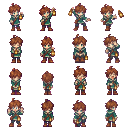
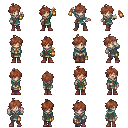
Trainer-intro beat art complete (42 sprites); Andrew's word outside the Old Light; ANY-OF gates so old saves aren't locked out; purple-rim fix; v1.23
- All trainer battle sprites: 15 shared classes, 8 Lampwardens, Wren/Cor/Fenn/
  Georgina/Paul/5 Vigilants, the whole Old Light cast + Punchwheel, player back/front.
- Andrew runs up once the jest is done (pearlmoor_point band), says his piece
  with the player's {name}, laughs and dashes off.
- FlagStore ANY_OF: the Old Light door, breakwater moor-gate, Galehigh winch and
  Pale Vault undercroft open on their quest step OR the later Gleam (mirrored
  in audit_journey DERIVED_ANY).
- tools/assets/fix_purple_rim.py cleans the old chroma-key rim; the player
  sheets are re-tinted and repacked. Skill docs: OpenAI path is native alpha.

Claude-Session: https://claude.ai/code/session_01FLaxAhAHVF6U9AFKVoKXeQ

diff --git a/src/game/content/regions/jesthouse.ts b/src/game/content/regions/jesthouse.ts
@@ -193,12 +193,31 @@ export const JESTHOUSE_SCRIPTS: ScriptRegistry = {
   // ---- Lightkeeper's Point: PIP runs after you on the way out --------------------------------
   // Fires once, on the Point's one crossing back to the quay, if you've climbed the
   // tower (the floats are yours) but haven't had the rope yet.
+  // ---- ANDREW outside the Old Light, once the act is done (owner's beat, 2026-10) -------
+  // He runs up, says his piece about eggs and wonder, laughs and dashes off. Never says
+  // WHAT the egg is (CLAUDE.md); {name} is the player's name, whatever they chose.
+  'script.andrew_tower_wink': [
+    { op: 'emote', actor: 'andrew_tower', emote: 'alert' },
+    { op: 'move', actor: 'andrew_tower', to: { tx: 10, ty: 8 }, speed: 2 },
+    { op: 'face', actor: 'andrew_tower', facing: 'left' },
+    { op: 'face', actor: 'player', facing: 'right' },
+    { op: 'say', speaker: 'ANDREW', text: "{name}! There you are. Isn't it funny? All this time you've been chasing that Easter egg..." },
+    { op: 'say', speaker: 'ANDREW', text: "...when the whole game's been a little bit of an Easter egg all along, hasn't it? (wink, wink)" },
+    { op: 'say', speaker: 'ANDREW', text: "Keep playing, though. You're not AT the Easter egg yet." },
+    { op: 'say', speaker: 'ANDREW', text: "Isn't it funny? This game's been a bit of a wonder, hasn't it?" },
+    { op: 'say', speaker: 'ANDREW', text: 'And though you might aspire to make ME wonder... it is YOU who is the one wandering through MY world.' },
+    { op: 'action', actor: 'andrew_tower', action: 'laugh' },
+    { op: 'say', speaker: 'ANDREW', text: 'Ha! Ha ha ha ha!' },
+    { op: 'move', actor: 'andrew_tower', to: { tx: 19, ty: 8 }, speed: 2 },
+    { op: 'hideActor', actor: 'andrew_tower' },
+    { op: 'setFlag', flag: 'flag:andrew_tower_winked' },
+  ],
   'script.oldlight_rope_reminder': [
-    { op: 'emote', actor: 'pip', emote: 'alert', unless_flag: 'flag:q_south_has_rope' },
-    { op: 'move', actor: 'pip', to: { tx: 17, ty: 8 }, unless_flag: 'flag:q_south_has_rope' },
-    { op: 'say', speaker: 'PIP', text: 'WAIT! Wayfarer! Gran says you went UP the Old Light — all the way! Did you get her floats back off that machine?', unless_flag: 'flag:q_south_has_rope' },
-    { op: 'say', speaker: 'PIP', text: 'Take them to her on the quay, by her nets! She\'s got the bell-rope put by. Then you can walk the whole breakwater, right out to the bell.', unless_flag: 'flag:q_south_has_rope' },
-    { op: 'say', speaker: 'PIP', text: 'And go all the way to the END. Everyone says there\'s somebody out past the bell who... I don\'t know what he is. Nobody does! Go and SEE!', unless_flag: 'flag:q_south_has_rope' },
+    { op: 'emote', actor: 'pip', emote: 'alert', unless_flag: 'flag:q_south_rope_or_later' },
+    { op: 'move', actor: 'pip', to: { tx: 17, ty: 8 }, unless_flag: 'flag:q_south_rope_or_later' },
+    { op: 'say', speaker: 'PIP', text: 'WAIT! Wayfarer! Gran says you went UP the Old Light — all the way! Did you get her floats back off that machine?', unless_flag: 'flag:q_south_rope_or_later' },
+    { op: 'say', speaker: 'PIP', text: 'Take them to her on the quay, by her nets! She\'s got the bell-rope put by. Then you can walk the whole breakwater, right out to the bell.', unless_flag: 'flag:q_south_rope_or_later' },
+    { op: 'say', speaker: 'PIP', text: 'And go all the way to the END. Everyone says there\'s somebody out past the bell who... I don\'t know what he is. Nobody does! Go and SEE!', unless_flag: 'flag:q_south_rope_or_later' },
     { op: 'setFlag', flag: 'flag:oldlight_rope_reminded' },
   ],
   // ---- MOLL's two floors that notice your wins (the rest are plain dialogue) ----------

diff --git a/src/game/systems/flags/FlagStore.ts b/src/game/systems/flags/FlagStore.ts
@@ -50,6 +50,23 @@ const POST_LETTER_FLAGS: WorldFlag[] = [
 ];
 const POST_LETTERS_ALL: WorldFlag = 'flag:q_post_letters_all';
 
+/**
+ * ANY-OF gate flags (2026-10, owner's rule: players on old saves must never be locked out
+ * of places a LATER update hung on a quest step they already went past). A gate keys on a
+ * derived flag that opens on its own quest step OR any later milestone, so a save made
+ * before the step existed still opens it. Add a row when you gate something new on a
+ * mid-quest flag; mirror it in tools/maps/audit_journey.py DERIVED_ANY.
+ */
+const ANY_OF: [WorldFlag, WorldFlag[]][] = [
+  // the Old Light's door: Reyl's errand, or you've already got past Reyl (pre-R9 saves)
+  ['flag:oldlight_open', ['flag:q_south_bell', 'gleam:tide']],
+  // the rope's in hand, or the bell's long since rung: nobody needs reminding about it
+  ['flag:q_south_rope_or_later', ['flag:q_south_has_rope', 'gleam:tide']], // + the breakwater gate
+  // Galehigh's winch to the skyloft, Pale Vault's undercroft arch
+  ['flag:skyloft_open', ['flag:q_north_kite_blessed', 'gleam:storm']],
+  ['flag:undercroft_open', ['flag:q_north_aurora_oil', 'gleam:frost']],
+];
+
 export class FlagStore {
   private flags: Record<WorldFlag, boolean>;
 
@@ -91,6 +108,9 @@ export class FlagStore {
     }
     if (CROWNS.every(([crown]) => this.flags[crown] === true)) {
       this.flags[HUB_FLAG] = true;
+    }
+    for (const [gate, any] of ANY_OF) {
+      if (any.some((f) => this.flags[f] === true)) this.flags[gate] = true;
     }
     if (POST_LETTER_FLAGS.every((f) => this.flags[f] === true)) {
       this.flags[POST_LETTERS_ALL] = true;

diff --git a/src/game/content/whatsnew.ts b/src/game/content/whatsnew.ts
@@ -15,6 +15,10 @@
  * with the case. Changes there ship SILENTLY; announce only general things.
  */
 export const WHATS_NEW: Record<string, string[]> = {
+  '1.23': [
+    'Trainer battles now open the old way: your opponent steps out to face you, says their piece, and sends out their kin. Win, and they come back for a few closing words.',
+    'If you finished parts of the Wayfaring on an older build, places that later updates hung on quest steps you had already passed are now open to you.',
+  ],
   '1.22': [
     'At the top of the Old Light, someone very protective of the last joke has hired an act to keep you away from it. There is a comfy chair by the stairs to rest in first.',
   ],

diff --git a/src/game/version.ts b/src/game/version.ts
@@ -9,7 +9,7 @@
  * Keep package.json's "version" in step if you want them to match, but THIS
  * constant is what the game itself shows the player.
  */
-export const GAME_VERSION = '1.22';
+export const GAME_VERSION = '1.23';
 
 /** Pre-formatted label for display, e.g. "v1.1". */
 export const GAME_VERSION_LABEL = `v${GAME_VERSION}`;

diff --git a/tools/maps/build_pearlmoor_point.py b/tools/maps/build_pearlmoor_point.py
@@ -125,7 +125,9 @@ for oid, sprite, flagk in (("oldlight", "pearlmoor_oldlight_dark", "hidden_when_
 m["warps"].append({"id": "to_oldlight", "at": {"tx": DOOR[0], "ty": DOOR[1]},
                    "trigger": "step_on", "to_map": "pearlmoor_oldlight_1",
                    "to": {"tx": 11, "ty": 13}, "facing": "up", "transition": "door",
-                   "requires_flag": "flag:q_south_bell",
+                   # derived ANY-OF (FlagStore): q_south_bell or gleam:tide, so a save that
+                   # was already past Reyl before the tower opened is never locked out
+                   "requires_flag": "flag:oldlight_open",
                    "blocked_ref": "door.oldlight_locked"})
 
 # the slide's brass chute-mouth at the tower foot (non-solid prop; its warp
@@ -217,6 +219,22 @@ for y in (7, 8, 9):
                           "ref": "script.oldlight_rope_reminder",
                           "requires_flag": "flag:q_south_jest_done",
                           "hidden_when_flag": "flag:oldlight_rope_reminded"})
+
+# ANDREW, once the act is done (owner's beat, 2026-10): he waits by the shore and, the
+# first time you walk out from the tower's foot, runs up with a few words about eggs
+# and wonder, laughs and dashes off. A once band on every walkable tile of the lane
+# just east of the tower (x=9, rows 8-9) — west of Pip's band, so Andrew speaks first.
+m["npcs"].append({"id": "andrew_tower", "at": {"tx": 17, "ty": 9}, "facing": "left",
+                  "sprite": "andrew_quay", "movement": "look_around",
+                  "dialogue_ref": "script.andrew_tower_wink",
+                  "requires_flag": "flag:q_south_jest_done",
+                  "hidden_when_flag": "flag:andrew_tower_winked"})
+for y in (8, 9):
+    m["triggers"].append({"id": f"andrew_tower_{y}", "kind": "cutscene",
+                          "at": {"tx": 9, "ty": y}, "activation": "step_on",
+                          "ref": "script.andrew_tower_wink",
+                          "requires_flag": "flag:q_south_jest_done",
+                          "hidden_when_flag": "flag:andrew_tower_winked"})
 
 if __name__ == "__main__":
     # deep water (2026-10): the open sea past the shallow shelf — Tidecall

diff --git a/tools/assets/fix_purple_rim.py b/tools/assets/fix_purple_rim.py
@@ -1,0 +1,45 @@
+#!/usr/bin/env python3
+"""
+fix_purple_rim.py — clean the purple/mauve silhouette RIM old chroma-keyed sprites carry.
+
+Sprites generated on a magenta key (before gpt-image-2.5's native alpha) were
+downscaled with the key still blended into their outermost pixels: the rim reads as
+a purple hue around the character in-game (the owner spotted it on the player).
+defringe.py only catches strongly pink pixels; this pass catches the subtler purple/
+mauve cast on the outer rim and re-tints each such pixel as a DARKER shade of the
+colour just inside it (hair gets a dark-brown edge, a coat a dark-green one), falling
+back to the house ink. Lossless and local; never touch native-alpha art with it.
+
+  python3 tools/assets/fix_purple_rim.py assets/trainers/player_indi.png [...]
+  (then re-pack: pack_trainers.py / pack_creatures.py)
+"""
+import sys
+from pathlib import Path
+
+import numpy as np
+from PIL import Image
+
+INK = (30, 21, 46)
+
+
+def fix(src: Path) -> int:
+    a = np.array(Image.open(src).convert("RGBA")).astype(float)
+    op = a[..., 3] > 0
+    tr = ~op
+    nb = np.zeros_like(op)
+    nb[1:] |= tr[:-1]; nb[:-1] |= tr[1:]; nb[:, 1:] |= tr[:, :-1]; nb[:, :-1] |= tr[:, 1:]
+    edge, inner = op & nb, op & ~nb
+    r, g, b = a[..., 0], a[..., 1], a[..., 2]
+    cast = edge & (r - g > 15) & (b - g > 5) & (b > 0.55 * r)
+    H, W = op.shape
+    for y, x in zip(*np.nonzero(cast)):
+        cols = [a[y + dy, x + dx, :3] for dy in (-1, 0, 1) for dx in (-1, 0, 1)
+                if 0 <= y + dy < H and 0 <= x + dx < W and inner[y + dy, x + dx] and not cast[y + dy, x + dx]]
+        a[y, x, :3] = np.mean(cols, 0) * 0.5 if cols else INK
+    Image.fromarray(a.astype(np.uint8)).save(src)
+    return int(cast.sum())
+
+
+if __name__ == "__main__":
+    for f in sys.argv[1:]:
+        print(f"{f}: re-tinted {fix(Path(f))} rim px")

diff --git a/tools/maps/audit_journey.py b/tools/maps/audit_journey.py
@@ -147,6 +147,13 @@ DERIVED_CROWNS = [
     ("flag:crown_north", "gleam:storm", "gleam:frost"),
     ("flag:crown_west", "gleam:solar", "gleam:lunar"),
 ]
+# FlagStore ANY_OF gates (an old save past the quest step still opens them)
+DERIVED_ANY = [
+    ("flag:oldlight_open", ["flag:q_south_bell", "gleam:tide"]),
+    ("flag:q_south_rope_or_later", ["flag:q_south_has_rope", "gleam:tide"]),
+    ("flag:skyloft_open", ["flag:q_north_kite_blessed", "gleam:storm"]),
+    ("flag:undercroft_open", ["flag:q_north_aurora_oil", "gleam:frost"]),
+]
 LAMPLIGHT = [("flag:lamplight_warmlight", 2), ("flag:lamplight_brightlight", 4),
              ("flag:lamplight_starlight", 6), ("flag:lamplight_radiant", 8)]
 POST_LETTERS = ["wren", "fenn", "tinderwick", "pearlmoor", "lowleaf", "cinderhead",
@@ -520,6 +527,10 @@ class Replay:
             if a in held and b in held:
                 out.append((crown, "engine:derive"))
                 held.add(crown)
+        for gate, anyf in DERIVED_ANY:
+            if any(f in held for f in anyf):
+                out.append((gate, "engine:derive"))
+                held.add(gate)
         if all(c in held for c, _, _ in DERIVED_CROWNS):
             out.append(("flag:hub_unlocked", "engine:derive"))
         if all(f"flag:q_post_letter_{x}" in held for x in POST_LETTERS):

diff --git a/.claude/skills/generate-sprite-sheet/scripts/generate_sprite.py b/.claude/skills/generate-sprite-sheet/scripts/generate_sprite.py
@@ -392,8 +392,8 @@ def main() -> int:
     p.add_argument("--palette", help="Shared palette description for the area's tile set (e.g. from "
                    "assets/tilesets/world-palette.json). Used with --area for cross-tile cohesion.")
     p.add_argument("--provider", choices=["google", "openai"], default=DEFAULT_PROVIDER,
-                   help="Image provider. 'google' (default) uses Nano Banana Pro's transparent "
-                        "path. 'openai' uses gpt-image-2 with a magenta chroma-key for transparency.")
+                   help="Image provider. 'openai' uses gpt-image-2.5-sunburst with NATIVE alpha (no "
+                        "chroma key, no purple halo; best for humans). 'google' keys a magenta field.")
     p.add_argument("--resample", choices=["lanczos", "box", "nearest"], default="lanczos",
                    help="Downscale filter. lanczos (default) reads cleanest at tiny sizes; nearest is hardest-edged.")
     p.add_argument("--fill", type=float, help="Override the type's subject fill fraction (0-1).")

diff --git a/tools/maps/build_pearlmoor.py b/tools/maps/build_pearlmoor.py
@@ -337,11 +337,11 @@ m = {
         # line; lands ON the breakwater's return pair. Both root columns warp.
         {"id": "to_breakwater", "at": {"tx": 24, "ty": 23}, "trigger": "step_on",
          "to_map": "pearlmoor_breakwater", "to": {"tx": 5, "ty": 0}, "facing": "down",
-         "requires_flag": "flag:q_south_has_rope", "blocked_ref": "npc.netmender_gate",
+         "requires_flag": "flag:q_south_rope_or_later", "blocked_ref": "npc.netmender_gate",
          "transition": "fade"},
         {"id": "to_breakwater_e", "at": {"tx": 25, "ty": 23}, "trigger": "step_on",
          "to_map": "pearlmoor_breakwater", "to": {"tx": 6, "ty": 0}, "facing": "down",
-         "requires_flag": "flag:q_south_has_rope", "blocked_ref": "npc.netmender_gate",
+         "requires_flag": "flag:q_south_rope_or_later", "blocked_ref": "npc.netmender_gate",
          "transition": "fade"},
         # R9: the west beach runs on out to Lightkeeper's Point (the Old Light).
         # (Shipped JSON carries these surgically too — see build_pearlmoor_point.py.)

diff --git a/tools/maps/build_galehigh_terraces.py b/tools/maps/build_galehigh_terraces.py
@@ -331,7 +331,7 @@ m["warps"] += [
     # THE WINCH up to the skyloft — festival-flag-gated, NEVER Updraft (§0 r1)
     {"id": "to_skyloft", "at": {"tx": 21, "ty": 18}, "trigger": "step_on",
      "to_map": "galehigh_skyloft", "to": {"tx": 9, "ty": 10}, "facing": "up",
-     "requires_flag": "flag:q_north_kite_blessed",
+     "requires_flag": "flag:skyloft_open",  # ANY-OF: kite blessing or gleam:storm (FlagStore)
      "blocked_ref": "npc.winch_not_ready", "transition": "fade"},
     # THE DROP-HOME THERMAL back up to the Windward II crags (the return half
     # of `shortcut_galehigh` — N2's drop warp lands ON this tile; the ride up

diff --git a/tools/maps/build_pale_vault_glacier.py b/tools/maps/build_pale_vault_glacier.py
@@ -268,7 +268,8 @@ pt.building(m, path_for_aprons, W, H, oid="undercroft_arch",
             sprite="pale_vault_undercroft_arch", at=(18, 6), overhang=1,
             door_col=1, to_map="pale_vault_undercroft", to=(10, 0))
 m["warps"][-1].update({"id": "to_undercroft",
-                       "requires_flag": "flag:q_north_aurora_oil",
+                       # ANY-OF: the aurora oil or gleam:frost (FlagStore)
+                       "requires_flag": "flag:undercroft_open",
                        "blocked_ref": "npc.ysolde_door_unlit"})
 
 # ---- objects: braziers, the camp swap pair, spires, lamps --------------------------

diff --git a/.claude/skills/generate-sprite-sheet/SKILL.md b/.claude/skills/generate-sprite-sheet/SKILL.md
@@ -209,9 +209,11 @@ $GEN/pack_trainers.py
   sprite when generating its back/icon). Repeat for multiple. Routed to
   `generate-image --input-image`; gpt-image-2 honours references via its edits
   route.
-- `--provider google|openai` — image provider. **`google` (default)** uses Nano
-  Banana Pro's native transparent path. `openai` uses gpt-image-2 + magenta
-  chroma-key (fallback; its safety filter can reject benign briefs).
+- `--provider google|openai` — image provider. `openai` uses **gpt-image-2.5-sunburst with NATIVE
+  alpha** (no chroma key, so no purple/pink halo): the default choice for anything human or
+  transparent, and what every trainer-battle sprite uses. `google` (Nano Banana Pro) still keys a
+  magenta field, so its edges can carry a purple rim. Clean such old art with
+  `tools/assets/fix_purple_rim.py` (the subtle mauve rim) or `tools/assets/defringe.py` (strong pink).
 - `--resample lanczos|box|nearest` — downscale filter. **`lanczos` (default)**
   reads cleanest at tiny sizes; `nearest` gives the hardest edges. (Rendering
   stays crisp regardless — Phaser nearest-upscales the small source.)
@@ -616,11 +618,10 @@ ring vs interior), and that rim *is* the grid when tiled. The fix is prompt + sa
     rim **8.9**) that fights tiling. Use OpenAI for pure fills *when it's behaving*.
   - **EDGES / DECOR / OBJECTS / anything transparent: Nano** — cleaner edge (rim 0.7 vs gpt 18)
     and native transparency; gpt's edge picked up a vignette.
-  - **Reliability caveat (today):** our sprite tooling routes OpenAI through opaque + magenta-
-    chroma + the *creature* preamble + retries, so gpt tiles are **slow and frequently fail** in
-    this env (the cliff fill fell back to Nano). Until the OpenAI tile path uses native
-    `background:transparent` + a tile-specific preamble + no retries, **default `--provider
-    google` for tiles**, and only reach for OpenAI on a stubborn uniform fill. Generate fills as
+  - **(2026-10) The OpenAI path is now native `background:transparent`** (gpt-image-2.5-sunburst;
+    the magenta chroma-key is only a fallback for a pinned no-alpha model), so there's no key halo.
+    Tiles are still drawn in code (gbaforge) wherever possible; for a generated tile prefer
+    `--provider google` only on a stubborn fill that OpenAI embellishes. Generate fills as
     a large flat field and `whole_downscale` regardless of model.
 
 The legacy per-area `_shared/` recipe below still documents the from-scratch generate flow;
